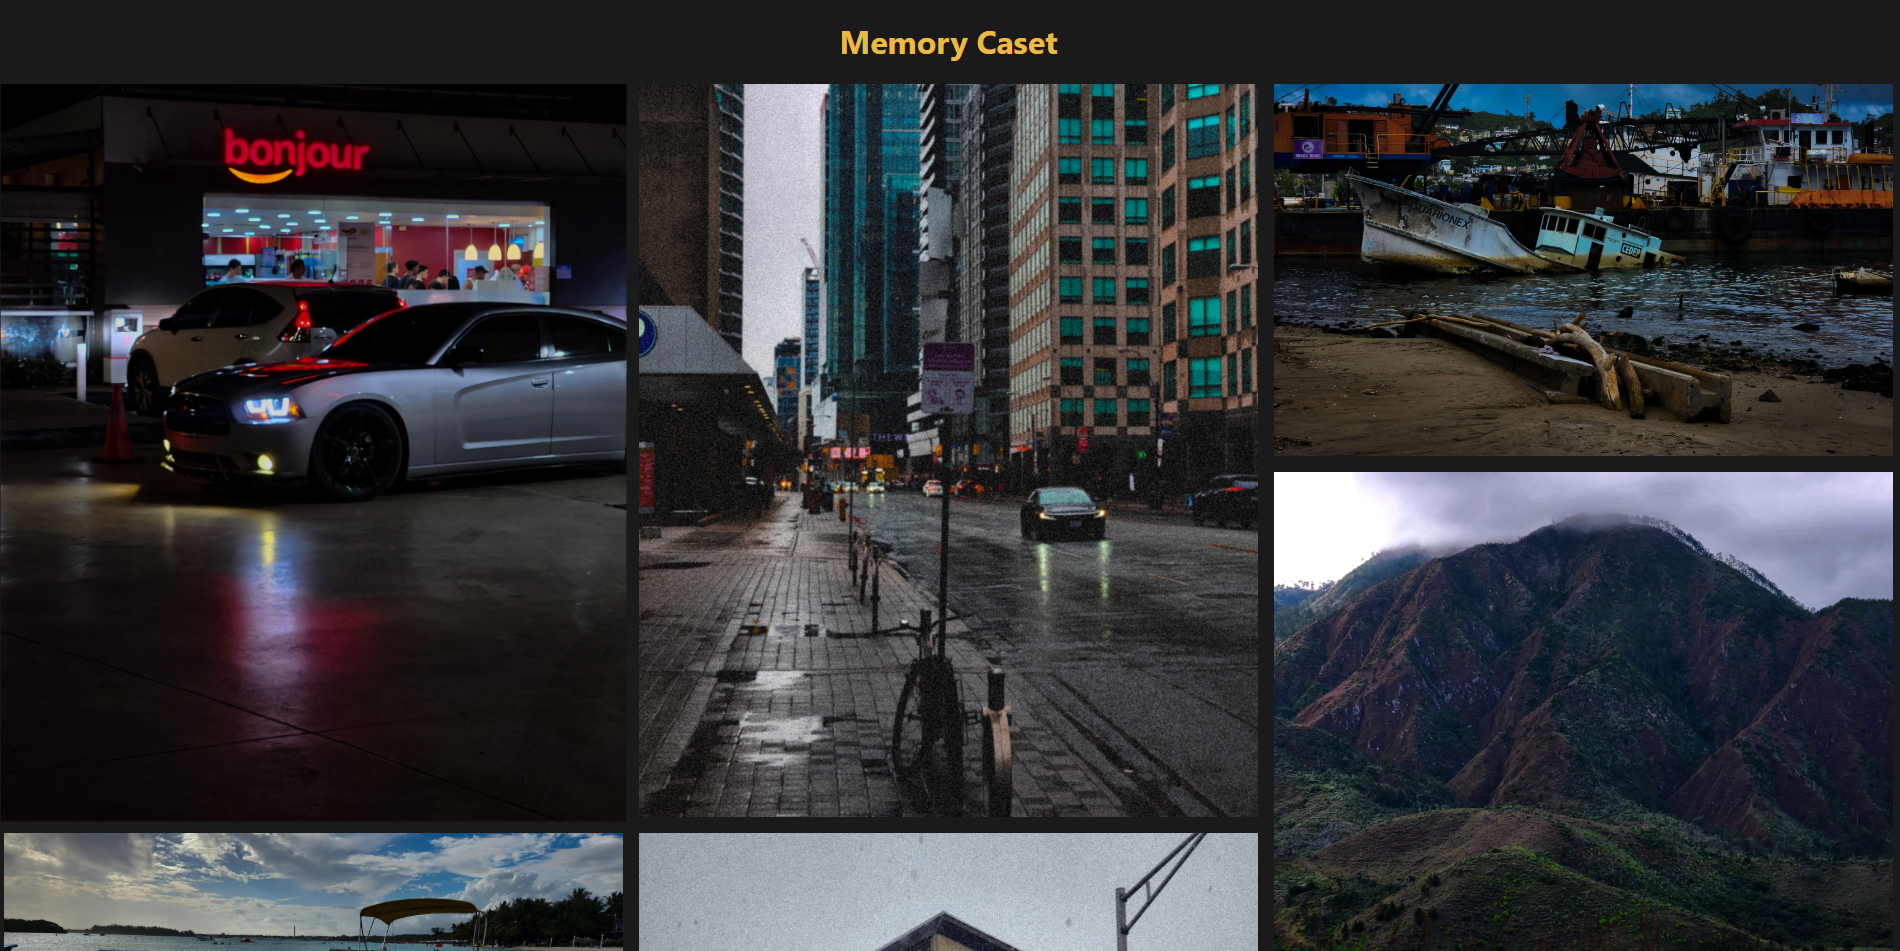
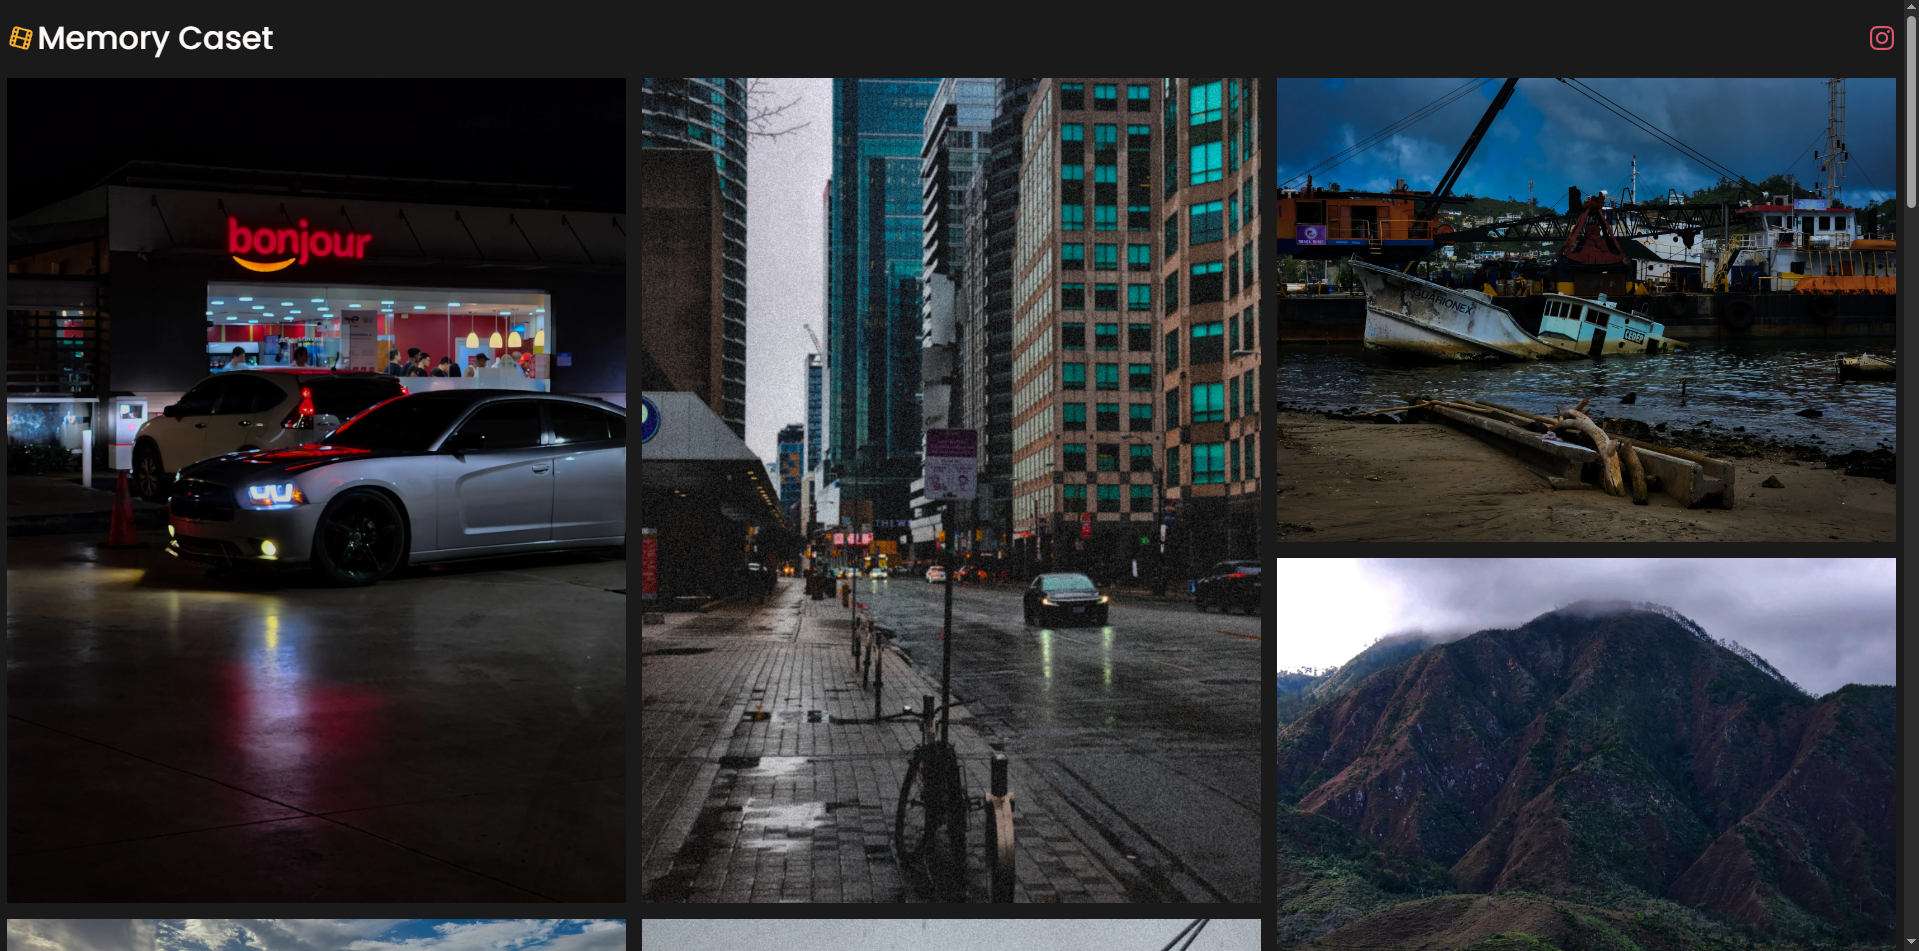
img fit change

diff --git a/components/projects.tsx b/components/projects.tsx
@@ -81,6 +81,7 @@ const projects: Project[] = [
     image: "/projects/memorycaset-photogallery/memorycaset-img1.png",
     gallery: [
       "/projects/memorycaset-photogallery/memorycaset-img1.png",
+      "/projects/memorycaset-photogallery/memorycaset-img2.png",
     ],
     technologies: ["React", "CSS"],
     liveUrl: "https://www.memorycaset.com",
@@ -112,7 +113,7 @@ function ProjectGallery({ images, title }: { images: string[]; title: string }) 
         <img
           src={images[currentImage] || "/placeholder.svg"}
           alt={`${title} - Image ${currentImage + 1}`}
-          className="w-full h-full object-cover"
+          className="w-full h-full object-contain"
         />
         {images.length > 1 && (
           <>
